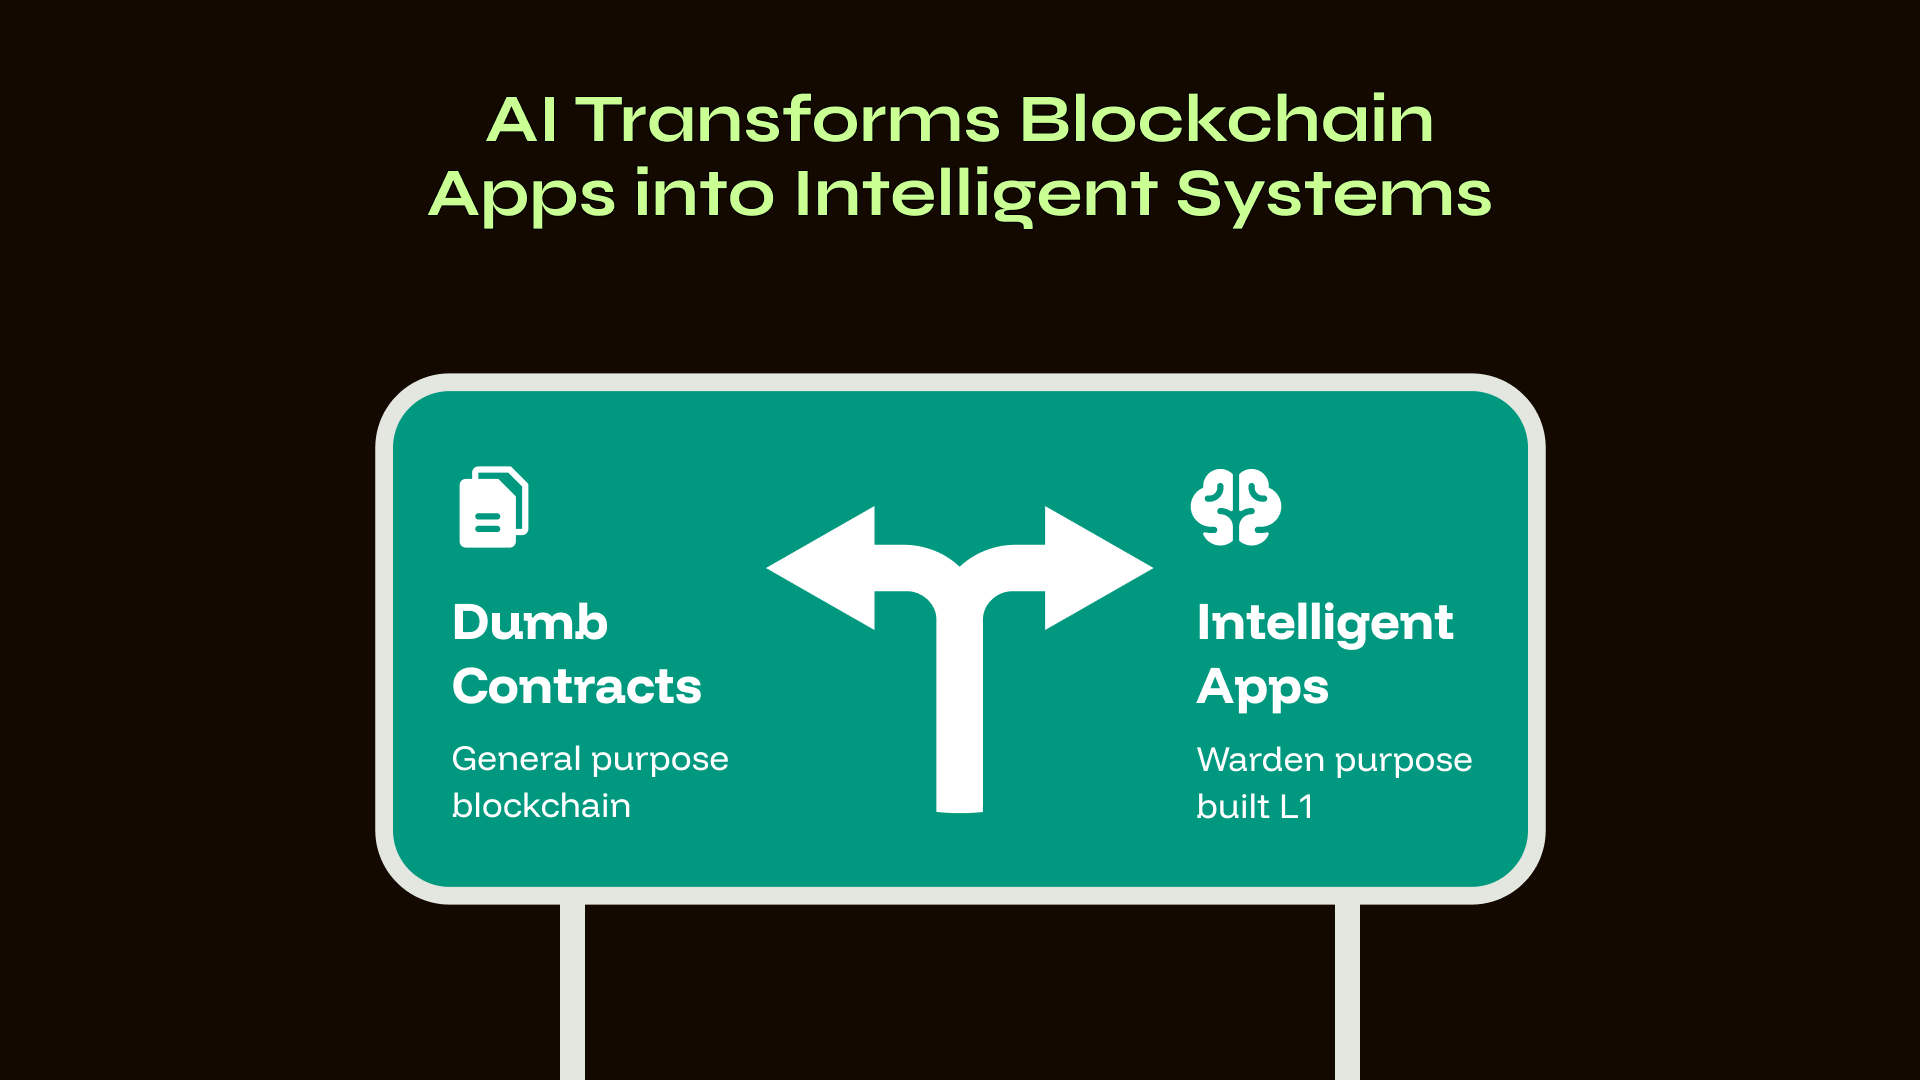
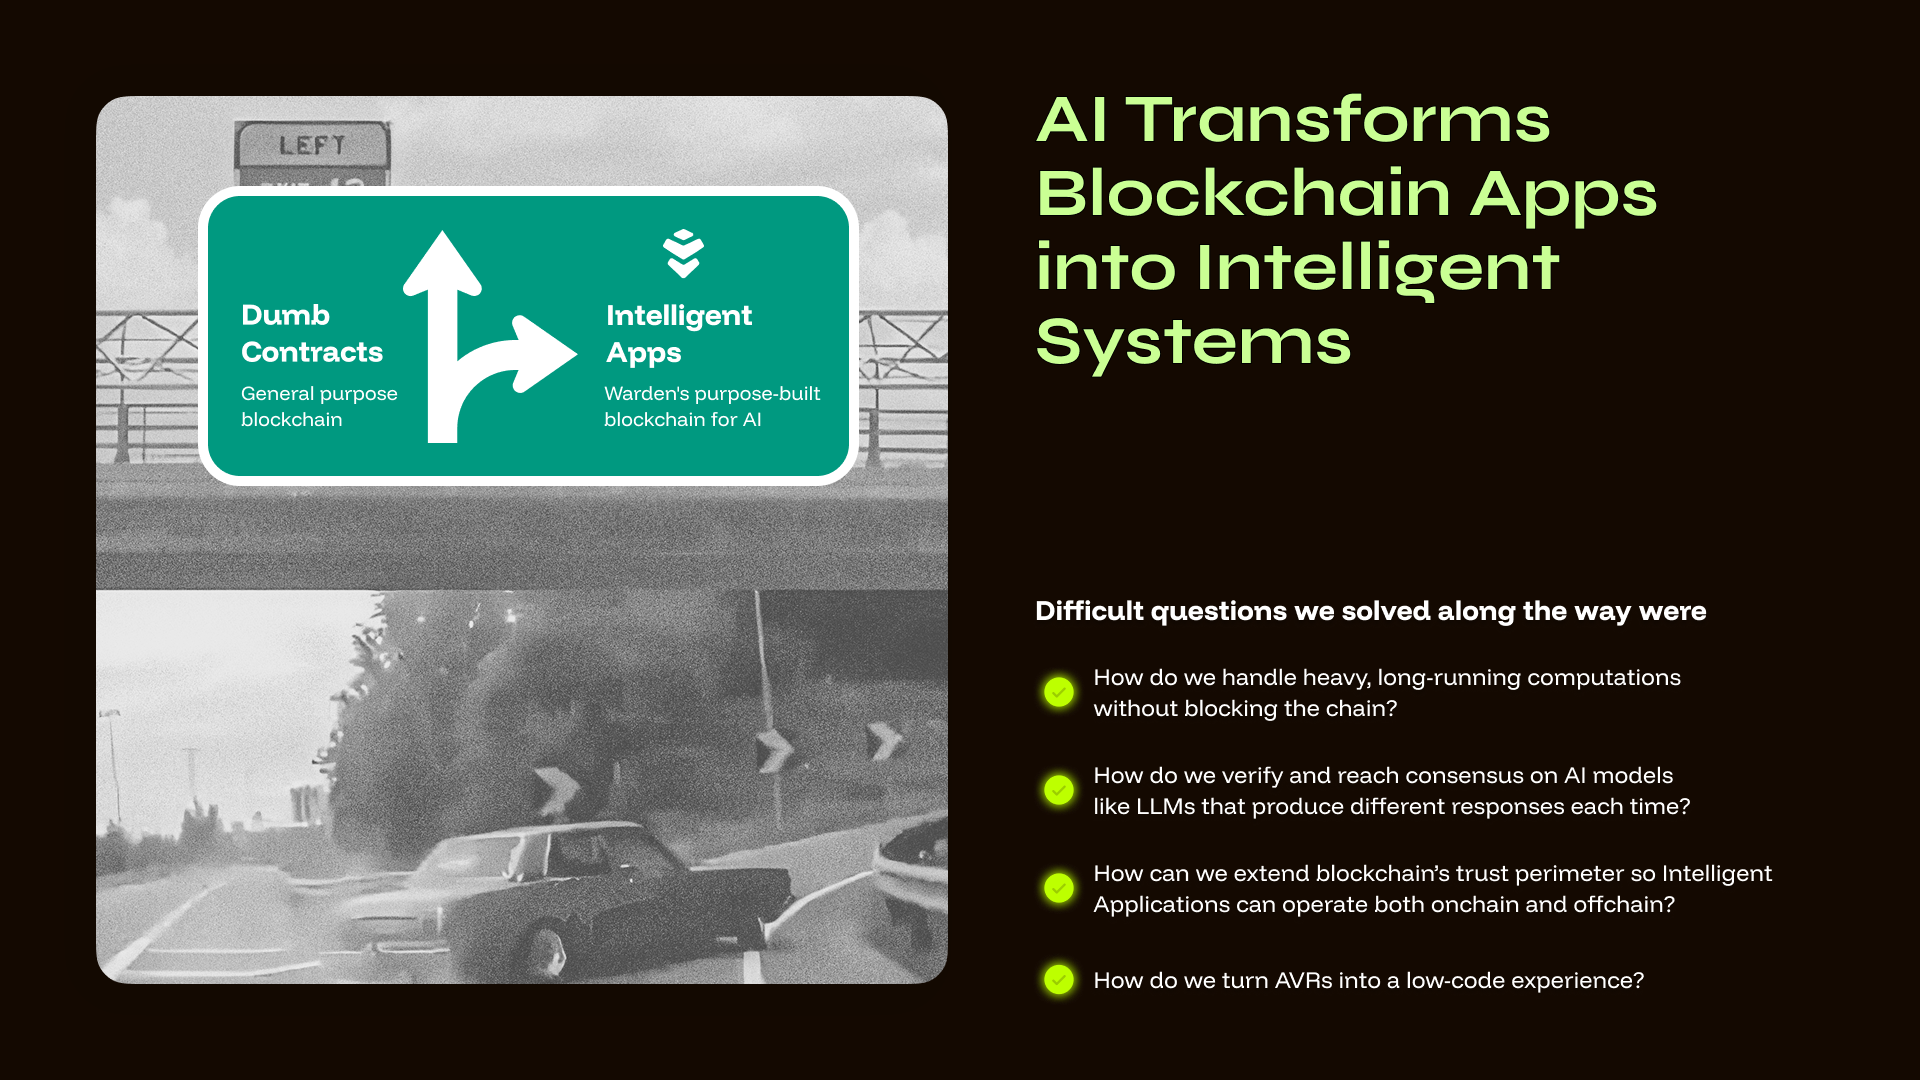
added tokenomics, updated images

diff --git a/docs/developer-docs/docs/tokens/ward-token/supply.md b/docs/developer-docs/docs/tokens/ward-token/supply.md
@@ -4,7 +4,7 @@ sidebar_position: 6
 
 # Supply
 
-## WARD supply details
+## $WARD supply details
 
 |Property|Details|
 |-|--|
@@ -13,33 +13,35 @@ sidebar_position: 6
 | Decimals | 6 |
 
 
-## **WARD emissions**
+## $WARD emissions
 
-An **emission** of WARD tokens is a programmatic emission based on the proportion of WARD tokens staked relative to the total supply. This will operate based on preset parameters:
+On mainnet launch, which will operate under a Proof-of-Authority framework, there will be zero token emissions. 
+
+Upon evolution to the Proof-of-Stake framework, an **emission** of WARD tokens commences, with a programmatic emission based on the proportion of $WARD tokens staked relative to the total supply. This will operate based on preset parameters:
 
 | Parameter |Value  |
 |--|--|
 | Initial Issuance |8%  |
 | Maximum Annual Issuance  | 10%  |
 | Minimum Annual Issuance | 1% |
-| Target WARD staked | 65% |
+| Target $WARD staked | 65% |
 | Inflation Rate of Change | 100% |
 
 ## Issuance rate
-As above, Warden Protocol adjusts the WARD **issuance rate** based on the actual staking ratio relative to the target:
+As above, Warden Protocol adjusts the $WARD **issuance rate** based on the actual staking ratio relative to the target:
 
-- **Below target staking**: If the percentage of staked WARD is less than the target of 65%, the issuance rate will incrementally increase. This adjustment continues until it reaches the maximum rate of 10% or until the staking target is met.
+- **Below target staking**: If the percentage of staked $WARD is less than the target of 65%, the issuance rate will incrementally increase. This adjustment continues until it reaches the maximum rate of 10% or until the staking target is met.
 
 - **At target staking**: When the staking ratio aligns with the 65% target, the current issuance rate remains unchanged.
 
-- **Above target staking**: If the percentage of staked WARD is greater than the target of 65%, the issuance rate will incrementally decrease. This adjustment continues until it reaches the minimum rate of 1% or until the staking target is met.
+- **Above target staking**: If the percentage of staked $WARD is greater than the target of 65%, the issuance rate will incrementally decrease. This adjustment continues until it reaches the minimum rate of 1% or until the staking target is met.
 
 ## Rate of change
 
-The **rate of change** is the rate at which the WARD issuance adapts over the year is quantified by the following formula: 
+The **rate of change** is the rate at which the $WARD issuance adapts over the year is quantified by the following formula: 
 
 - `[1 - (current staked ratio/staking target)] x Inflation rate of change`
 
 ## **Burns**
 
-WARD tokens are burned programmatically from a 3% community tax taken from protocol fees to reduce supply along the growth of the protocol. 
+$WARD tokens are burned programmatically from a 3% community tax taken from protocol fees to reduce supply along the growth of the protocol. 

diff --git a/docs/developer-docs/docs/tokens/ward-token/demand.md b/docs/developer-docs/docs/tokens/ward-token/demand.md
@@ -6,20 +6,20 @@ sidebar_position: 3
 
 ## Demand drivers
 
-Warden Protocol aims to drive a sustainable equilibrium between supply and demand of WARD. To drive demand of WARD, there will be a number of intrinsic demand drivers built into the protocol: 
+Warden Protocol aims to drive a sustainable equilibrium between supply and demand of $WARD. To drive demand of $WARD, there will be a number of intrinsic demand drivers built into the protocol: 
 
-- **Transaction fees**: All fees generated are distributed across WARD validators and their stakers.
-- **Operator bonds**: Operators of services must bond WARD, reducing the circulating supply of WARD and enhancing the protocol’s collective security and stability.
-- **Governance**: WARD will be used for community governance initiatives, creating a last need for a meaningful stake in Warden.
+- **Transaction fees**: $WARD will be the primary gas/fee abstraction token in the ecosystem, for both the Protocol and the Warden App.
+- **Operator bonds**: Operators of certain services must bond $WARD, reducing the circulating supply of $WARD and enhancing the protocol’s collective security and stability.
+- **Governance**: $WARD will be used for community governance initiatives, creating a last need for a meaningful stake in Warden.
 
 ## Keychain operators
 
-Keychain operators serve a vital role within Warden Protocol.
+[Keychain](/learn/glossary#keychain) operators serve a vital role within Warden Protocol.
 
 A Keychain is an offchain service that provides key management services to Warden users. The selected Keychain creates and stores a key material locally and publishes the public key on Warden. Users can then request signatures for various purposes. 
 
-Keychains are required to pay a WARD bond to Warden Protocol by the Total Value Secured concept. This WARD bond is locked and can only be unbonded after a 6 month notice period.
+Keychains are required to pay a $WARD bond to Warden Protocol by the Total Value Secured concept. This $WARD bond is locked and can only be unbonded after a 6-month notice period.
 
 ## Validator bonds
 
-To operate a validator on Warden Protocol, validators will be required to stake WARD.
+To operate a validator on Warden Protocol, validators will be required to hold a meaningful stake of $WARD.

diff --git a/docs/developer-docs/docs/tokens/ward-token/distribution.md b/docs/developer-docs/docs/tokens/ward-token/distribution.md
@@ -6,13 +6,13 @@ sidebar_position: 4
 
 ## Overview
 
-In this section you'll find information about the WARD token distribution and release schedule.
+In this section you'll find information about the $WARD token distribution and release schedule.
 
-Note that WARD distribution will be characterized by the following:
+Note that $WARD distribution will be characterized by the following:
 
 - **Fair launch mechanism**: The WARD token distribution will adopt a fair launch mechanism. This approach ensures a wide and equitable distribution of tokens, preventing market manipulation and ensuring a rapid distribution of stakeholders and community governance.
   
-- **Prioritization of OPEN token holders**: OPEN Holders will be recognized for their early and ongoing support, along with other eligible protocols and platforms that have contributed to the foundations and culture that has given Warden Protocol the ability to launch.
+- **Prioritization of active users**: active users of any application or infra within the Warden ecosystem will be recognized ongoing support, along with other eligible protocols and platforms that have contributed to the foundations and culture that has given Warden Protocol the ability to launch.
 
 ## Main WARD distribution
 
@@ -25,7 +25,7 @@ Note that WARD distribution will be characterized by the following:
 |Category|% | Description |Circulating|
 |--|--|--|--|
 | Public goods | 10% | Incentivized testnet and genesis airdrop, and public good initiatives |Available at genesis
-|Ecosystem & community | 20%| Allocated for initiatives that contribute to Warden Protocol's ecosystem and community projects|Available at genesis locked to governance
+|Ecosystem & community | 20%| Allocated for initiatives that contribute to Warden Protocol's ecosystem and community projects| Available at genesis locked to governance
 | Developer incentives|16%|Developer and builder incentives  | Available at genesis locked to governance
 | Validators and operators |10%| Initial amount delegated to mainnet validators and operators | Available at genesis but bonded
 | Treasury & R&D | 24% |Long term treasury and research programmes | 10M available at genesis, linear unlock two year weekly vest

diff --git a/docs/developer-docs/docs/tokens/ward-token/airdrop-stages.md b/docs/developer-docs/docs/tokens/ward-token/airdrop-stages.md
@@ -6,24 +6,12 @@ sidebar_position: 2
 
 ## Stage 1
 
-The first snapshot for a portion of the airdrop of $WARD has been completed. This is merely the initial step among various potential methods to gain access to the $WARD Airdrop.
+The first snapshot for a portion of the airdrop of $WARD has been completed for early contributors, validators, and testers. This is merely the initial step among various potential methods to gain access to the $WARD airdrop.
 
-**Subsequent stages** will also encompass participants in the Incentivized Testnet, Onchain and Offchain Campaign, and Active Contributors (Stage 2), as well as $TIA, $DYM, and $ATOM stakers, $OPEN holders, NFT communities, and other ecosystems.
+**Subsequent stages** will also encompass participants in our final testnet and users of the [Warden App](/learn/glossary#warden-app).
 
-### Snapshot 1 - OPEN token holders OG Snapshot
+## Stage 2 
 
-**TL;DR**
+If you are reading this, it has begun. Hint: the [Warden App](/learn/glossary#warden-app).
 
--   Snapshot date: March 22, 2024, 1pm UTC
--   Eligibility Criteria: Active participation in Public Goods within the OPEN ecosystem
 
-**Check your airdrop**
-
--   Go to [wardenprotocol.org](https://genesis.wardenprotocol.org/).
--   For the address, select your OPEN (former QRDO) voting wallet—the one you used to vote on [Snapshot](https://snapshot.org/#/governance.qredo.eth/) for the different QPIPs).
--   That’s it! You can now see your expected $WARD airdrop at genesis.
-
-**Notes**
-
--   More information will be communicated about how to claim the airdrop.
--   Airdrops not claimed in time will be redistributed to the other recipients.

diff --git a/docs/developer-docs/docs/tokens/ward-token/incentives.md b/docs/developer-docs/docs/tokens/ward-token/incentives.md
@@ -4,12 +4,12 @@ sidebar_position: 5
 
 # Incentives
 
-Warden Protocol will distribute WARD to stakeholders to incentivize behaviors that add value to the Warden ecosystem.
+The Warden Protocol will distribute $WARD to stakeholders to incentivize behaviors that add value to the Warden ecosystem.
 
 Incentive programs include the following:
 
 1. **Ecosystem & community incentives**: These incentives will be used to grow the ecosystem and further the long-term interests of the protocol.
 
-2. **Developer incentives**: These incentives are for developers building and deploying applications on Warden. Additionally, an Activity Mining Program will be launched rewarding applications that reach certain milestones (e.g. total value locked, monthly active users), and their users.
+2. **Developer incentives**: These incentives are for developers building and deploying applications on Warden. Additionally, an Intelligent Application Builder programme will be launched rewarding applications that reach certain milestones (e.g. total value locked, monthly active users), and their users.
 
 3. **R&D programs**: Where Warden Protocol would benefit from additional core functionality, or integrations, Warden will commission work to developer teams to contribute to the core execution layers of the protocol.

diff --git a/docs/developer-docs/docs/learn/warden-manifesto.md b/docs/developer-docs/docs/learn/warden-manifesto.md
@@ -61,7 +61,7 @@ Warden's founding team consists of experienced builders from crypto, AI, and the
 
 ### A Blockchain For Intelligent Apps
 
-![Dumb contracts vs. Intelligent Apps](../../static/img/manifesto-1.png)
+![AI transforms blockchain apps into intelligent systems](../../static/img/manifesto-1.png)
 
 Warden took a full-stack approach to solve a complex challenge. When we first designed Warden our guiding question was clear: **how can we use AI to enable more intelligent applications?** We quickly found traditional, general-purpose blockchains are not well equipped to handle inferences.
 
@@ -170,7 +170,7 @@ We plan to launch mainnet in Q3 2025. Before mainnet we have four engineering ob
    - Fee token for all operations
    - Payment and incentives for AVRs
 
-   Tokenomics overview [here](https://docs.wardenprotocol.org/tokens/introduction).
+   Tokenomics overview [here](https://docs.wardenprotocol.org/tokens/ward-token/ward).
 
 10. **What other net-new applications can be built on Warden?**
 

diff --git a/docs/developer-docs/docs/learn/glossary.md b/docs/developer-docs/docs/learn/glossary.md
@@ -387,9 +387,9 @@ Validators enter this state either when they decide to stop participating in [st
 
 ## WARD token
 
-WARD is the native utility token integral to the Warden Protocol ecosystem. It facilitates various operations such as [governance](#governance), [staking](#staking), protocol fees and acts as a medium of payment for operators, such as [Keychain](#keychain) operators.
+$WARD is the native utility token integral to the Warden Protocol ecosystem. It facilitates various operations—such as [governance](#governance), [staking](#staking), protocol fees—and serves as a medium of payment for operators, such as [Keychain](#keychain) operators.
 
-Learn more: [WARD token](/tokens/ward-token/ward).
+Learn more: [$WARD](/tokens/ward-token/ward).
 
 ---
 

diff --git a/docs/developer-docs/docs/tokens/introduction.md b/docs/developer-docs/docs/tokens/introduction.md
@@ -4,10 +4,6 @@ sidebar_position: 1
 
 # Introduction
 
-There are two tokens available on Warden Protocol:
+Warden Protocol is powered by **$WARD**, its native utility token.
 
-- **WARD**: It's the native utility token integral to Warden Protocol ecosystem. WARD is designed to facilitate various operations such as governance, staking, protocol fees and as a medium of payment for operators.
-
-- **WARP**: It's the dynamic counterpart to WARD, adding liquidity and gamification to the Warden Protocol ecosystem. It fuels engagement and participation through innovative tokenomics.
-
-See the sections below to learn how to get WARD and WARP and other details.
+See the sections below to learn more.

diff --git a/docs/developer-docs/docs/tokens/ward-token/ward.md b/docs/developer-docs/docs/tokens/ward-token/ward.md
@@ -2,9 +2,11 @@
 sidebar_position: 1
 ---
 
-# WARD
+# $WARD
 
-**WARD** is the native utility token integral to the Warden Protocol ecosystem. It's designed to facilitate various operations such as governance, staking, protocol fees and as a medium of payment for operators.
+**$WARD** is the native utility token for the Warden ecosystem, powering Warden Protocol.
+
+$WARD is designed to facilitate various operations—such as governance, staking, protocol fees—and to serve as a medium of payment for operators. For the [Warden App](/learn/glossary#warden-app), it'll act as a gas abstraction token and unlock gated functionality. 
 
 |Property|Details|
 |-|--|

diff --git a/docs/developer-docs/docs/learn/introduction-to-warden.md b/docs/developer-docs/docs/learn/introduction-to-warden.md
@@ -91,7 +91,7 @@ Use the top menu to navigate across the main sections of the docs and learn how 
 - [Build an Agent](/build-an-agent/introduction): Guides for AI Agent builders
 - [Build a Keychain](/build-a-keychain/introduction): Guides for Keychain operators
 - [Operate a Node](/operate-a-node/introduction): Guides for node operators
-- [Tokens](/tokens/introduction): A detailed overview of Warden tokens—WARD and WARP
+- [Tokens](/tokens/introduction): A detailed overview of Warden tokenomics
 - [SpaceWard](https://help.wardenprotocol.org): User guides for SpaceWard, our front-end Intelligent Application
 
 ## Contribute

diff --git a/docs/developer-docs/docs/operate-a-node/chiado-testnet/chiado-overview.md b/docs/developer-docs/docs/operate-a-node/chiado-testnet/chiado-overview.md
@@ -62,6 +62,6 @@ Chiado's denomination is `award` / 0.000000000000000001 [WARD](/tokens/ward-toke
 
 ## Faucet
 
-Here is the faucet for getting [WARD](https://docs.wardenprotocol.org/tokens/ward-token/ward) on Chiado:
+Here is the faucet for getting [WARD](https://docs.wardenprotocol.org/tokens/ward) on Chiado:
 
 - [Chiado faucet](https://faucet.chiado.wardenprotocol.org/)
